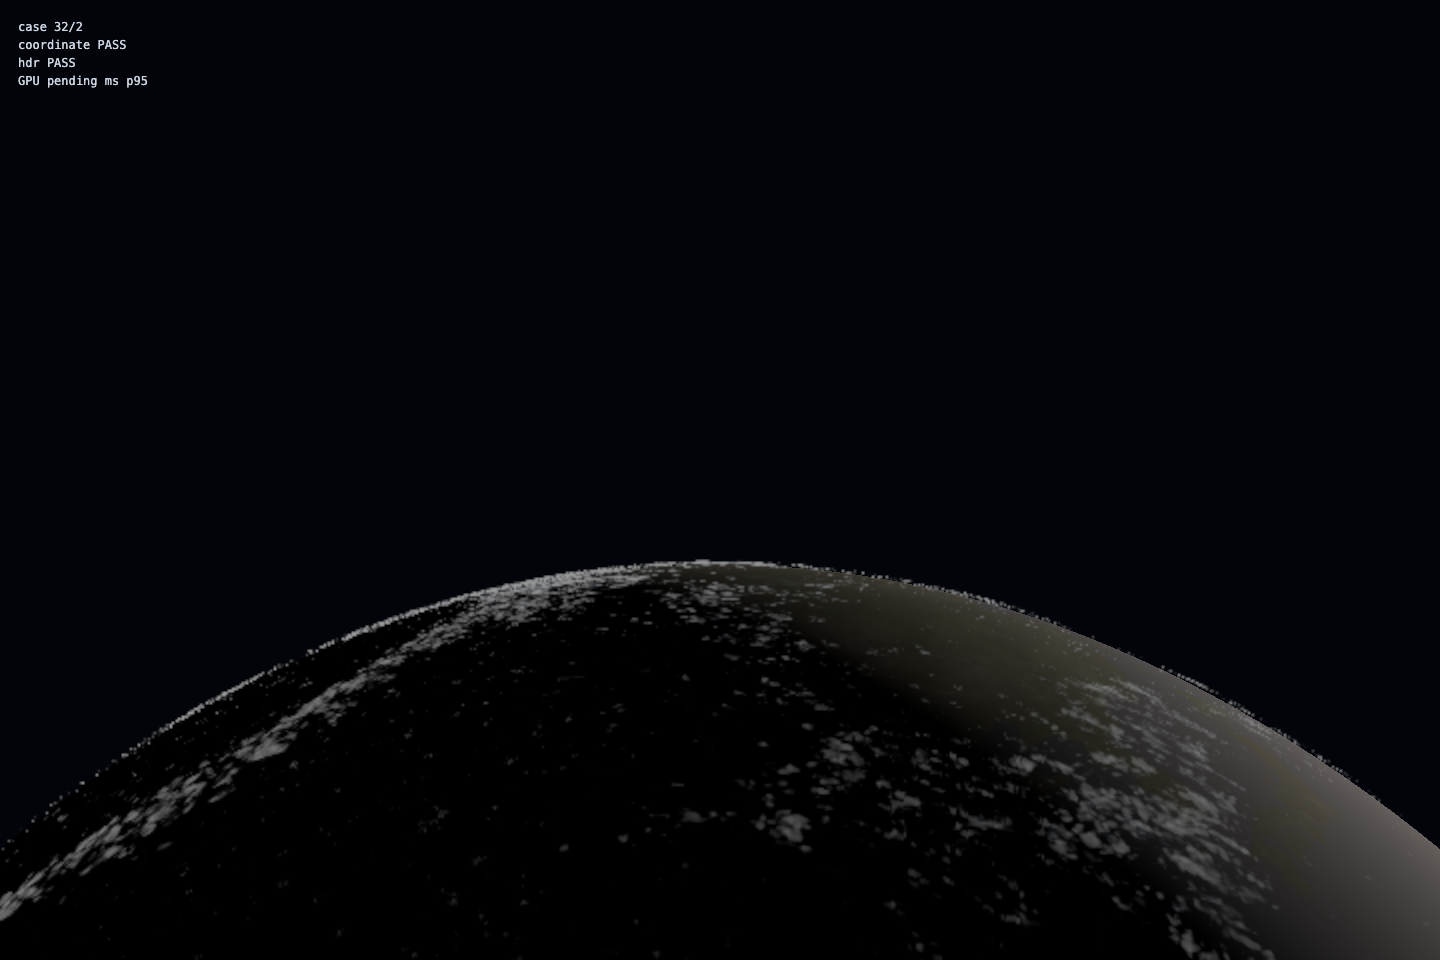
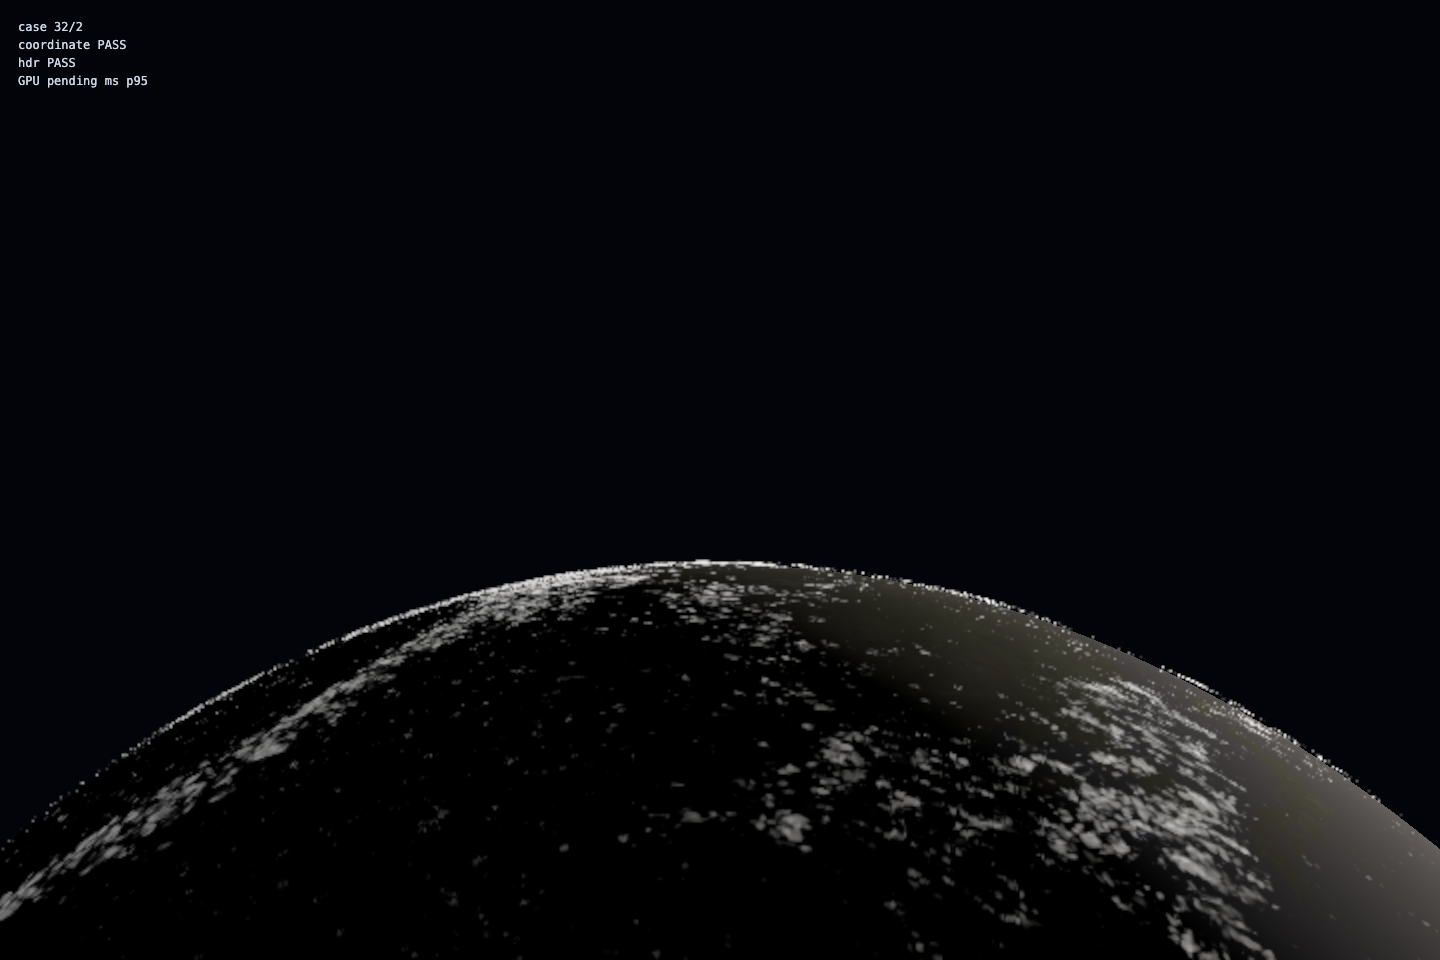
docs(lubirth): rerun readiness-gated cloud evidence
Replace the pre-readiness timing window, refresh visual captures after the HG fix, and align the main plan with EARLY_REPRESENTATION_FAIL.

diff --git a/docs/superpowers/plans/2026-08-05-lubirth-planetary-volumetric-cloud-spike.md b/docs/superpowers/plans/2026-08-05-lubirth-planetary-volumetric-cloud-spike.md
@@ -296,7 +296,8 @@ DPR 1
 
 | 条件 | 决策 | 后续 |
 | --- | --- | --- |
-| Task -1 coordinate/HDR/micro visual 失败 | `EARLY_KILL` | 停止 Task 0–8 |
+| Task -1 coordinate/HDR/timer 合同失败 | `EARLY_KILL` | 停止 Task 0–8 |
+| Task -1 micro visual 失败 | `EARLY_REPRESENTATION_FAIL` | 停止 Task 0–8；不得把 disposable representation 失败解释为 V3 或 Takram-first 否决 |
 | Task -1 所有 visual-passing case `>4 ms` | `MICROBENCH_OVER_BUDGET` | 当前计划停止；需要单独 review/修订后才可进入 Task 0 |
 | 视觉/遮挡/资源恢复任一硬门槛失败 | `KILL` | 停止 Task 6–8 |
 | cloud GPU p95 `> 4.0 ms` | `KILL` | 停止 Task 6–8 |
@@ -581,7 +582,7 @@ export const CLOUD_SHELL_MICROBENCH_CASES = Object.freeze({
 });
 ```
 
-- [ ] 只对 `microbench/visual-review.json` 全项通过的 case 开正式 GPU 窗口；视觉全失败时直接 `EARLY_KILL`，不花时间做 120-frame 性能采样。
+- [ ] 只对 `microbench/visual-review.json` 全项通过的 case 开正式 GPU 窗口；视觉全失败时直接 `EARLY_REPRESENTATION_FAIL`，不花时间做 120-frame 性能采样。
 - [ ] 性能测量固定 Apple M4 / headed System Chrome / production build / `1440×960` / DPR 1 / `resolutionScale=0.5` / `adaptive=false`。
 - [ ] 每个 visual-passing case 先 hidden warmup `120` frames，再采集至少 `120` 个有效 GPU frames；compile、resize、hidden、context restore、disjoint 样本作废。
 - [ ] microbench cloud total 必须逐帧覆盖：
@@ -600,7 +601,7 @@ opaque baseline 不计入 cloud GPU，但其 color/depth RT 必须进入 increme
 
 ```json
 {
-  "decision": "EARLY_KILL | MICROBENCH_OVER_BUDGET | MICROBENCH_VIABLE",
+  "decision": "EARLY_KILL | EARLY_REPRESENTATION_FAIL | MICROBENCH_OVER_BUDGET | MICROBENCH_VIABLE",
   "bestCase": "24/6 | 32/2 | 48/6 | null",
   "bestCloudGpuP95Ms": null,
   "validGpuSamples": 0,
@@ -614,8 +615,11 @@ opaque baseline 不计入 cloud GPU，但其 color/depth RT 必须进入 increme
 判定固定为：
 
 ```ts
-if (!coordinatePass || !hdrColorPass || !microVisualPass || !timerSupported) {
+if (!coordinatePass || !hdrColorPass || !timerSupported) {
   return "EARLY_KILL";
+}
+if (!microVisualPass) {
+  return "EARLY_REPRESENTATION_FAIL";
 }
 if (Math.min(...visualPassingCaseP95Ms) > 4) {
   return "MICROBENCH_OVER_BUDGET";
@@ -625,6 +629,7 @@ return "MICROBENCH_VIABLE";
 
 - `<=4 ms` 在此仍只是 incomplete early-cost viability；即使 `<=3 ms` 也绝不能给 `PROMOTION_ELIGIBLE`。
 - `EARLY_KILL` 时停止 Task 0–8，只固化 Task -1 失败证据并执行 Task 10 的去留记录。
+- `EARLY_REPRESENTATION_FAIL` 时同样停止 Task 0–8，但只固化该 disposable representation 的失败证据；不得外推为 V3 或 Takram-first 不可行。
 - `MICROBENCH_OVER_BUDGET` 默认停止 Task 0–8；因为 Takram 可能用 BSM/temporal 改变成本结构，它不是最终 `KILL` 证据。若仍要继续，必须先提交一轮明确解释预期收益与更窄预算的新 plan amendment，本计划本身不授权越过。
 - `MICROBENCH_VIABLE` 后暂停，review `README.md + checkpoint.json + 四帧 contact sheet`；确认后才允许 Task 0。
 
@@ -1528,7 +1533,7 @@ rg --files . \
   - 默认首页是否零成本；
   - 最终 `KILL / SPIKE_VIABLE_BUT_NOT_PROMOTABLE / PROMOTION_ELIGIBLE`。
 
-- [ ] Task -1 若为 `EARLY_KILL` 或 `MICROBENCH_OVER_BUDGET`，决策文档只陈述 isolated microbenchmark/coordinate/HDR/visual 结果，不伪造 Takram、temporal、occupancy 或完整 pipeline 数据；这些字段明确写 `NOT_RUN_AFTER_TASK_MINUS_ONE`。
+- [ ] Task -1 若为 `EARLY_KILL`、`EARLY_REPRESENTATION_FAIL` 或 `MICROBENCH_OVER_BUDGET`，决策文档只陈述 isolated microbenchmark/coordinate/HDR/visual 结果，不伪造 Takram、temporal、occupancy 或完整 pipeline 数据；这些字段明确写 `NOT_RUN_AFTER_TASK_MINUS_ONE`。
 
 - [ ] `PROMOTION_ELIGIBLE` 也不直接修改 `landingVisualPolicy.ts` 默认值。推广首页需要独立、经确认的 production plan。
 - [ ] 如果缺失的 `lubirth-cloud-volume-v3-evidence/2026-08-05/README.md` 在执行前恢复，先把它与本计划的 V3/坐标/性能假设逐项做差异 review；有冲突时更新计划和 checkpoint schema，再继续执行。

diff --git a/docs/lubirth-planetary-cloud-evidence/2026-08-05/microbench/README.md b/docs/lubirth-planetary-cloud-evidence/2026-08-05/microbench/README.md
@@ -1,6 +1,6 @@
 # LuBirth 行星体积云 Task -1 / Task -1R 证据
 
-最终 checkpoint：MICROBENCH_OVER_BUDGET。Task -1R 已证明 V3 可以只充当宏观天气输入、通过受限 representation 的视觉门；但最低固定工作量的 visual-pass case 32/2 在 headed System Chrome 的 121 个有效 GPU 样本中 total p95 为 **32.961416 ms**，远高于 4 ms 预算。本轮没有安装 Takram、没有修改默认首页，也没有开始 Task 0–8。
+最终 checkpoint：MICROBENCH_OVER_BUDGET。Task -1R 已证明 V3 可以只充当宏观天气输入、通过受限 representation 的视觉门；但最低固定工作量的 visual-pass case 32/2 在 headed System Chrome 的 121 个有效 GPU 样本中 total p95 为 **36.146749 ms**，远高于 4 ms 预算。本轮没有安装 Takram、没有修改默认首页，也没有开始 Task 0–8。
 
 原 Task -1 的 EARLY_KILL 已追溯更正为 EARLY_REPRESENTATION_FAIL。它准确描述的是旧的 disposable 表示（固定 52 km to-sun 路径 + 直接径向挤出 V3 R）失败，**不能**解释为 Takram-first 或 V3 被技术否决。
 
@@ -22,16 +22,23 @@ Task -1R 保留 V3 的现有通道布局：R 仅是宏观 weather / coverage，G
 
 ## 正式 GPU 窗口与结论
 
-32/2 是 visual-pass cases 中固定 primarySteps × lightSteps 最低的组合（64，对比 24/6=144、48/6=288），因此是足够严格的早期成本候选。headed System Chrome（Apple M4 Metal renderer）在 120 warmup 后取得 121 个有效、非 disjoint 样本：
+32/2 是 visual-pass cases 中固定 primarySteps × lightSteps 最低的组合（64，对比 24/6=144、48/6=288），因此是足够严格的早期成本候选。correctness review 后的正式运行在 weather ready frame 3、warmup start frame 4、sampling start frame 124 才开始收样，并取得 121 个有效、非 disjoint 样本：
 
 | 指标 | p50 (ms) | p95 (ms) |
 | --- | ---: | ---: |
-| density + light raymarch | 7.854125 | 10.222624 |
-| resolve | 7.967374 | 10.378875 |
-| cloud composite | 8.768374 | 12.415791 |
-| total | 24.594207 | 32.961416 |
+| density + light raymarch | 9.522791 | 10.948750 |
+| resolve | 9.621041 | 11.071000 |
+| cloud composite | 10.206874 | 14.040124 |
+| total | 29.599874 | 36.146749 |
 
-invalidFrames=0，但 total p95 比预算高约 8.2 倍。因此结论是这个 disposable representation 在当前 RT / compositor 账本下成本超标；它不是对 Takram-first、V3 数据或未来有不同成本架构的生产实现的否决。Task 0–8 继续被当前计划的 checkpoint 阻断。
+invalidFrames=0，但 total p95 比预算高约 9.0 倍。此前的 32.961416 ms 窗口已被本次 readiness-gated 重跑取代：旧窗口的 warmup 可能早于 V3 纹理就绪，且使用了错误的 HG 相位方向。因此结论是这个 disposable representation 在当前 RT / compositor 账本下成本超标；它不是对 Takram-first、V3 数据或未来有不同成本架构的生产实现的否决。Task 0–8 继续被当前计划的 checkpoint 阻断。
+
+## Correctness review 后的测量边界
+
+- warmup 只在 V3 纹理就绪、coordinate/HDR/gamma gate 通过且当前完整帧已渲染后开始；telemetry 保存 ready / warmup / sampling frame。
+- 停止条件是至少 120 个**有效** GPU frames。disjoint 或非有限值会计入 invalid 数，但会继续补采，不能消耗有效样本配额。
+- HG 使用 camera-to-sample 与 sample-to-sun 的正向散射余弦。三个 opening contact sheet 已在该修正后重抓并重新人工复核。
+- 本结果仍没有 no-op、copy-only 或 combined-total timer-query 校准，也不保存逐帧 raw timings；因此它是当前 harness 的超预算观测，不可解释为经校准的阶段归因，更不可外推为 Takram-first 成本结论。新增计时校准需要独立 plan amendment。
 
 ## 运行环境与复现
 

diff --git a/docs/superpowers/plans/2026-08-05-lubirth-planetary-cloud-task-minus-1r.md b/docs/superpowers/plans/2026-08-05-lubirth-planetary-cloud-task-minus-1r.md
@@ -186,7 +186,15 @@ Expected: all checks pass before staging. Commit docs/evidence with `docs(lubirt
 
 - 原 Task -1 的 EARLY_KILL 已追溯更正为 EARLY_REPRESENTATION_FAIL：当时的固定光线路径与二维 coverage 径向挤出并不能否决 V3 或 Takram-first。
 - Task -1R 三个 opening case 已通过这一受限 representation 的人工视觉门，因此启动了 headed System Chrome 的正式 GPU 窗口。
-- 最低固定工作量的 visual-pass case 32/2 在 121 个有效、非 disjoint GPU 样本中得到 total p95 32.961416 ms，超过 4 ms 预算；最终 checkpoint 为 MICROBENCH_OVER_BUDGET。本计划在此停止，Task 0–8 仍未获授权。
+- 最低固定工作量的 visual-pass case 32/2 在 weather ready frame 3 后才开始 warmup，并在 121 个有效、非 disjoint GPU 样本中得到 total p95 36.146749 ms，超过 4 ms 预算；最终 checkpoint 为 MICROBENCH_OVER_BUDGET。本计划在此停止，Task 0–8 仍未获授权。
+
+## Correctness review follow-up
+
+- P1：sampling 停止条件改为有效样本数；disjoint / 非有限 completed frame 会保留在 invalid 统计中并继续补采。
+- P1：V3 weatherReady、coordinate/HDR/gamma gate 与一轮完整 render 共同定义 ready frame；本次 formal run 记录 ready=3、warmup=4、sampling=124。
+- P2：HG 相位改为 camera-to-sample dot sample-to-sun，并在该方向修正后重抓三组 opening contact sheet。
+- P2：主计划的 micro visual failure 已同步为 EARLY_REPRESENTATION_FAIL。
+- no-op/copy-only/combined-total timer baseline 与逐帧 raw 样本不是本 amendment 的既定测量架构，保留为新计划的校准项。
 
 ## Plan self-review
 
